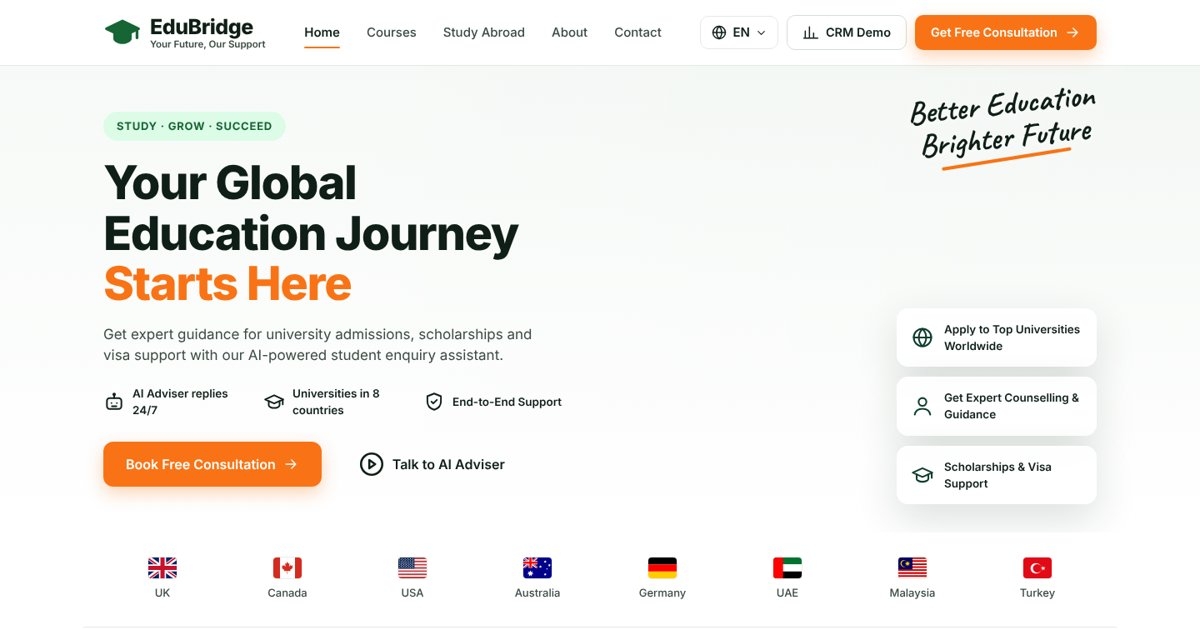
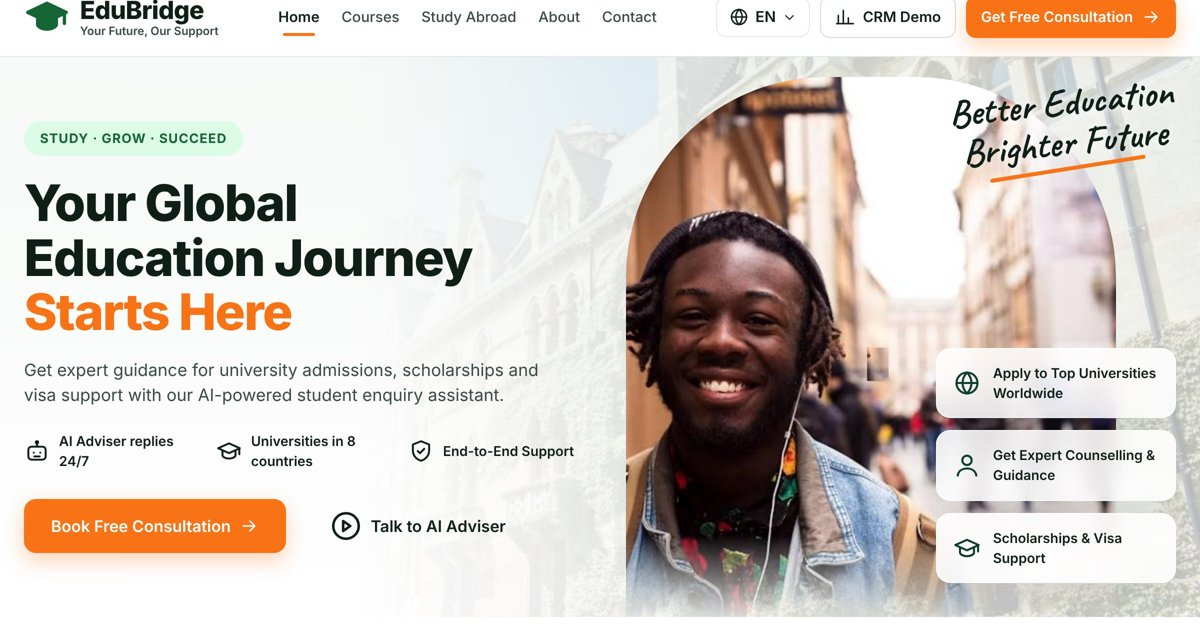
Polish: header spacing at 1280px, single eligibility title, OG image
Claude-Session: https://claude.ai/code/session_01TQ7FNgaEro8nteeiJsvJVB

diff --git a/js/app.js b/js/app.js
@@ -118,7 +118,7 @@
   function eligCard(r) { return `<div class="welig ${r.result}"><div class="ring" style="--p:${r.score}"><b>${bdi(r.score)}</b></div><div><b>${t('el.' + r.result)}</b><ul>${r.reasons.map(x => `<li>${esc(x)}</li>`).join('')}</ul>${r.next && r.next.length ? `<small>${t('el.next')}:</small><ul>${r.next.map(x => `<li>${esc(x)}</li>`).join('')}</ul>` : ''}</div></div>`; }
   function chatMsgs() {
     const last = CHAT.items.length - 1;
-    return CHAT.items.map((m, i) => `<div class="wm ${m.who}">${m.live ? `<span class="livebadge">${t('ai.live')}</span>` : ''}<p>${m.flagC ? flag(m.flagC, 'xs') + ' ' : ''}${esc(m.text)}</p>
+    return CHAT.items.map((m, i) => `<div class="wm ${m.who}">${m.live ? `<span class="livebadge">${t('ai.live')}</span>` : ''}${m.text ? `<p>${m.flagC ? flag(m.flagC, 'xs') + ' ' : ''}${esc(m.text)}</p>` : ''}
       ${m.fields ? `<div class="wfields">${FIELD_KEYS.map(f => `<button class="wfield ${CHAT.ctx.field === f ? 'on' : ''}" data-act="aiField" data-f="${f}"><img src="${photo(FIELDS[f].photo, 240, 180)}" alt="" loading="lazy"><span>${t('f.' + f)}</span></button>`).join('')}</div>` : ''}
       ${m.unis && m.unis.length ? `<div class="wunis">${m.unis.map(id => uniCard(uni(id))).join('')}</div>` : ''}
       ${m.elig ? eligCard(m.elig) : ''}
@@ -182,7 +182,7 @@
     CHAT.busy = true; renderChat();
     const list = CHAT.unis.length ? CHAT.unis.map(uni) : currentUnis();
     const r = await AI.eligibility(CHAT.ctx, list, L());
-    CHAT.busy = false; botSay(t('el.' + r.result), { elig: r, live: r.live }); botSay(t('ai.counsellor')); CHAT.mode = 'contact'; renderChat();
+    CHAT.busy = false; botSay('', { elig: r, live: r.live }); botSay(t('ai.counsellor')); CHAT.mode = 'contact'; renderChat();
   }
   function captureLead() {
     const c = CHAT.ctx; c.saved = true;

diff --git a/index.html b/index.html
@@ -11,8 +11,8 @@
 <meta property="og:image" content="/assets/og.jpg">
 <link rel="icon" href="assets/favicon.svg" type="image/svg+xml">
 <link rel="preload" href="css/fonts/inter-latin-400-normal.woff2" as="font" type="font/woff2" crossorigin>
-<link rel="stylesheet" href="css/fonts.css?v=1">
-<link rel="stylesheet" href="css/style.css?v=1">
+<link rel="stylesheet" href="css/fonts.css?v=2">
+<link rel="stylesheet" href="css/style.css?v=2">
 </head>
 <body>
 <div id="root"></div>
@@ -21,11 +21,11 @@
 <div id="drawer"></div>
 <div id="toasts" aria-live="polite"></div>
 <noscript><p style="padding:20px">Please enable JavaScript to use this demo.</p></noscript>
-<script src="js/i18n.js?v=1"></script>
-<script src="js/icons.js?v=1"></script>
-<script src="js/data.js?v=1"></script>
-<script src="js/charts.js?v=1"></script>
-<script src="js/ai.js?v=1"></script>
-<script src="js/app.js?v=1"></script>
+<script src="js/i18n.js?v=2"></script>
+<script src="js/icons.js?v=2"></script>
+<script src="js/data.js?v=2"></script>
+<script src="js/charts.js?v=2"></script>
+<script src="js/ai.js?v=2"></script>
+<script src="js/app.js?v=2"></script>
 </body>
 </html>

diff --git a/css/style.css b/css/style.css
@@ -457,3 +457,4 @@ body.dragmode{user-select:none;cursor:grabbing}
 }
 @media (prefers-reduced-motion:reduce){*{animation:none!important;transition:none!important}}
 .mini-list li span.av,.sres button span.av,.mini-list li span.pill{flex:none}
+@media (max-width:1280px) and (min-width:861px){.lnav a{padding:10px 9px;font-size:14.5px}.lhead-in{gap:12px}.lacts .btn{padding:0 14px}.lnav a{white-space:nowrap}}
